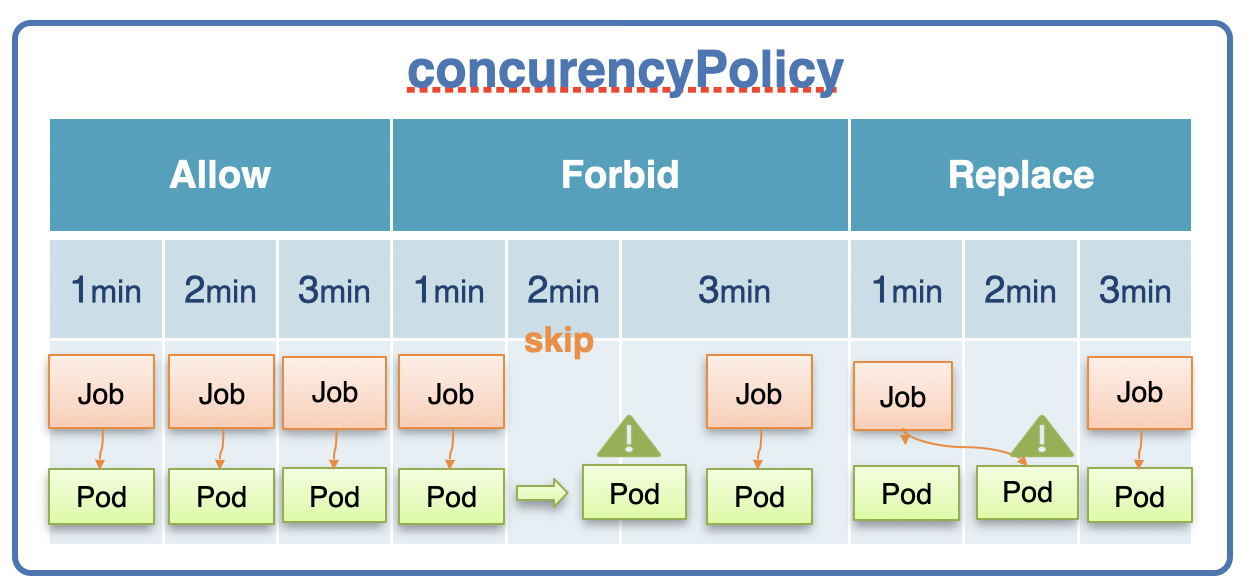
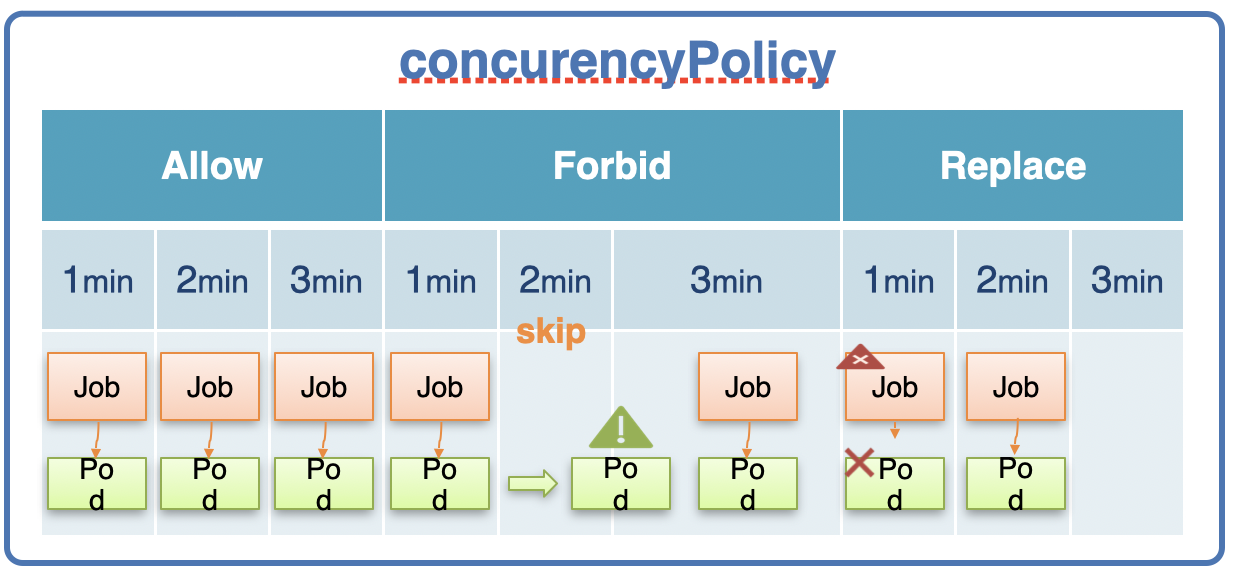
[begin kubernetes] feat: CronJob Feature

diff --git a/lecture/kubernetes/begin-kubernetes.md b/lecture/kubernetes/begin-kubernetes.md
@@ -1848,10 +1848,12 @@ spec:
 `DaemonSet`은 `selector`와 `template`이 있어서 모든 노드에 `template`으로 `Pod`를 생성하고, `Pod`는 `selector`와 `label`로 `DaemonSet`과 연결
 - 만일 노드들이 OS 종류가 달라서 특정 노드에는 Pod를 생성하지 않고 싶다면, `nodeSelector`를 지정하여 특정 라벨이 없는 노드에는 Pod가 생성되지 않도록 가능
 - `DaemonSet`는 노드에 추가적인 Pod는 만들 수 없지만, 안 만들 수는 있다.
+- `DaemonSet` 삭제 시 `DaemonSet`이 만든 Pod들은 같이 삭제
 
 호스트 포트를 설정하면 노드에 있는 포트로 Pod와 연결이 가능
 
 **DaemonSet - HostPort**
+- `DaemonSet`에 `HostPort` 설정 시 각 노드의 IP로 접근했을 때, 해당 노드에 올려져 있는 Pod에 접속
 
 ```sh
 apiVersion: apps/v1
@@ -1876,6 +1878,7 @@ spec:
 ```
 
 **DaemonSet - NodeSelector**
+- `nodeSelector`로 특정 라벨이 있는 노드에만 Pod 생성
 
 ```sh
 apiVersion: apps/v1
@@ -1903,11 +1906,11 @@ spec:
 **kubectl**
 
 ```sh
-# Label Add
+# 특정 노드에 라벨 추가
 kubectl label nodes k8s-node1 os=centos
 kubectl label nodes k8s-node2 os=ubuntu
 
-# Label Remove
+# 특정 노드에 라벨 제거
 kubectl label nodes k8s-node2 os-
 ```
 
@@ -1935,6 +1938,7 @@ kubectl label nodes k8s-node2 os-
 **CronJob**
 - CronJob은 Job들을 주기적인 시간에 따라서 생성하는 역할
 - 대체로 Job을 하나 단위로 사용하지 않고 CronJob을 만들어서 특정 시간에 반복적으로 실행할 목적으로 사용
+- CronJob 삭제 시 생성된 Job들도 삭제
 - 사용 사례
   - 매일 새벽 정기적인 백업
   - 주기적인 업데이트 확인
@@ -1947,9 +1951,12 @@ kubectl label nodes k8s-node2 os-
 `Job`도 마찬가지로 `template`, `selector`가 있고, 이 `template`에는 특정 작업만 하고 종료되는 일을 하는 Pod들을 담게 된다.
 - `selector`는 직접 만들지 않아도 Job이 알아서 생성
 - 일반적으로 `template`으로 하나의 Pod를 생성하고, 해당 Pod가 일을 다 하면 Job도 종료
-- `completions`:6 으로 설정하면 6개의 Pod를 하나씩 순차적으로 실행시키고, 모든 작업이 끝나야 Job도 종료
-- `parallelism`:2 으로 설정하면 두 개의 Pod가 생성
-- `activeDeadlineSeconds`:30 으로 설졍하면 해당 Job은 30초 후에 기능이 정지되고, 실행되고 있는 모든 Pod들은 삭제
+- Job이 삭제되면 Pod도 같이 삭제
+
+`Job`의 옵션들
+- `completions:6` 으로 설정하면 6개의 Pod를 하나씩 순차적으로 실행시키고, 모든 작업이 끝나야 Job도 종료
+- `parallelism:2` 으로 설정하면 두 개의 Pod가 생성
+- `activeDeadlineSeconds:30` 으로 설졍하면 해당 Job은 30초 후에 기능이 정지되고, 실행되고 있는 모든 Pod들은 삭제
   - ex. 10초가 걸리는 Job을 생성했는데, 30초가 되도록 작업이 끝나지 않는다면 행이 걸렸을 확률이 크고, 이 경우 Pod들을 삭제해서 자원을 릴리즈하고 더 이상 작업을 진행하지 않도록 하는 경우..
 
 **Job**
@@ -1960,9 +1967,9 @@ kind: Job
 metadata:
   name: job-2
 spec:
-  completions: 6 # 총 6번의 작업이 완료되면 Job이 종료
-  parallelism: 2 # 동시에 병렬로 실행될 파드의 수
-  activeDeadlineSeconds: 30 # Job이 시작된 후 30초 이내에 작업이 완료되지 않으면, 시간 초과로 작업이 실패
+  completions: 6 # 하나의 잡에 N개의 Pod를 준비
+  parallelism: 2 # 한 번에 실행 시 N개의 파드씩 병렬로 실행
+  activeDeadlineSeconds: 30 # Job이 30초 이내에 완료되지 않으면, 시간 초과로 작업이 중지되고 동작중이던 파드는 삭제
   template:
     spec:
       restartPolicy: Never # 파드가 실패해도 다시 시작되지 않도록 설정
@@ -2000,9 +2007,11 @@ spec:
 
 `Replace`
 - 1분에 Job이 만들어지고
-- 2분 스케줄에 이전 Pod가 계속 실행중이라면, 새로운 Pod를 만들면서 해당 Job의 연결을 새로운 Pod로 교체
-  - 2분이 되었을 때는 새로운 Job은 생기지 않지만, 새로운 Pod가 생기면서 이전 스케줄에 만들어진 Job에 연결
+- 2분 스케줄에 이전 Pod가 계속 실행중이라면
+  - 기존 Job(Pod도)은 삭제되고, 새 Job이(pod도) 생성
 - 위 Pod가 자신의 스케줄 타임에 종료되면 3분 스케줄 때 새로운 Job이 만들어지고 Pod 생성
+
+**CronJob**
 
 ```sh
 apiVersion: batch/v1 # CronJob 리소스를 정의할 때 사용되는 API 버전
@@ -2020,4 +2029,39 @@ spec: # CronJob의 동작을 정의하는 스펙
           containers:
           - name: container
             image: tmkube/app
+```
+
+**kubectl**
+
+```sh
+# Manual
+# --from 
+#   cronjob: Job 생성 시 cronjob을 통해 생성
+#   cron-job: cronjob이 name
+#   cron-job-manual-001: Job name
+kubectl create job --from=cronjob/cron-job cron-job-manual-001
+
+# Suspend
+kubectl patch cronjobs cron-job -p '{"spec" : {"suspend" : false }}'
+```
+
+**CronJob - ConcurrencyPolicy**
+
+```sh
+apiVersion: batch/v1
+kind: CronJob
+metadata:
+  name: cron-job-2
+spec:
+  schedule: "20,21,22 * * * *"
+  concurrencyPolicy: Replace # Allow, Forbid, Replace
+  jobTemplate:
+    spec:
+      template:
+        spec:
+          restartPolicy: Never
+          containers:
+          - name: container
+            image: kubetm/init
+            command: ["sh", "-c", "echo 'job start';sleep 140; echo 'job end'"]
 ```
